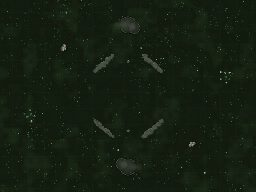
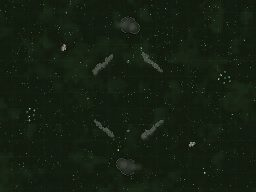
Ridge v4 climbs to a cliff head; river confluences stop ballooning

diff --git a/game.js b/game.js
@@ -2210,18 +2210,32 @@ const blocked = new Uint8Array(MAP_W * MAP_H);
 // narrows along the run. Straight constant-width bands read as a racetrack
 // (playtest 2026-07-26). Colliders, ground paint, and the water animation all
 // share these exact points.
-function riverPath([x1, y1, x2, y2, r]) {
+function riverPath(seg, all) {
+  const [x1, y1, x2, y2, r] = seg;
   const dxn0 = x2 - x1, dyn0 = y2 - y1;
   const L = Math.hypot(dxn0, dyn0);
   const dxn = dxn0 / L, dyn = dyn0 / L, nx = -dyn, ny = dxn;
   const seed = (x1 * 0.37 + y1 * 0.73 + x2 * 0.11) % 6.283;
+  // an endpoint that lands in/near ANOTHER channel is a CONFLUENCE, not a
+  // mouth — no delta flare there (2026-08-04, Bronson: two flared mouths
+  // overlapping at a junction ballooned into a blob). Mouths at causeway
+  // gaps and map edges keep the flare.
+  const nearOther = (px, py) => (all || []).some(o => {
+    if (o === seg) return false;
+    const ddx = o[2] - o[0], ddy = o[3] - o[1];
+    const tt = Math.max(0, Math.min(1, ((px - o[0]) * ddx + (py - o[1]) * ddy) / (ddx * ddx + ddy * ddy || 1)));
+    return Math.hypot(px - (o[0] + ddx * tt), py - (o[1] + ddy * tt)) < (r + o[4]) * 1.15;
+  });
+  const openStart = !nearOther(x1, y1), openEnd = !nearOther(x2, y2);
   const pts = [];
   for (let d = 0; d <= L; d += 30) {
     // meander eases to zero at the ends so causeway mouths stay put
     const ease = Math.min(1, d / 140, (L - d) / 140);
     const sway = (Math.sin(d * 0.011 + seed) * 0.55 + Math.sin(d * 0.0042 + seed * 2.7) * 0.45) * r * 0.5 * ease;
     // mouths flare outward (delta-style) so causeway gaps pinch hourglass
-    const flare = 1 + 0.38 * (1 - Math.min(1, d / 130, (L - d) / 130));
+    const fs = openStart ? Math.min(1, d / 130) : 1;
+    const fe = openEnd ? Math.min(1, (L - d) / 130) : 1;
+    const flare = 1 + 0.38 * (1 - Math.min(fs, fe));
     const width = r * flare * (0.82 + 0.22 * Math.sin(d * 0.016 + seed * 1.7) + 0.16 * Math.sin(d * 0.0061 - seed));
     pts.push({ x: x1 + dxn * d + nx * sway, y: y1 + dyn * d + ny * sway, r: width, d });
   }
@@ -2487,7 +2501,7 @@ function setup(mapKey) {
   // the causeways. Painted as smooth bands in paintGround; the individual
   // colliders are invisible (paintRock skips water).
   for (const seg of (M.rivers || [])) {
-    for (const p of riverPath(seg)) rocks.push({ x: p.x, y: p.y, r: p.r * 0.95, water: true });
+    for (const p of riverPath(seg, M.rivers)) rocks.push({ x: p.x, y: p.y, r: p.r * 0.95, water: true });
   }
   // trees: solid canopies riding the rock machinery — collision, pathing,
   // placement all come free. Groves scatter a stand inside a disc (min 70px
@@ -5190,25 +5204,34 @@ function paintRidges(g, M) {
     const ax = (x2 - x1) / L, ay = (y2 - y1) / L;
     const nx = -ay, ny = ax;
     const seed = (x1 * 0.7 + y1 * 1.3) % 100;
-    // generate the slab list
+    // generate the slab list — irregular walk along the line (v4: uniform
+    // spacing/size read as vertebrae; the wall must be CHAOTIC to read as
+    // rock). One end is the HIGH end: slabs grow and their faces extrude
+    // deeper toward it, so the formation climbs to a cliff head.
+    const highAtEnd = hn(seed, 777) > 0.5;
     const slabs = [];
-    const spacing = r * 0.85;
-    const n = Math.max(2, Math.round(L / spacing));
-    for (let i = 0; i <= n; i++) {
-      const t = i / n;
-      const off = (hn(seed, i) - 0.5) * r * 0.55;
+    let d = 0, i = 0;
+    while (d <= L + r * 0.3) {
+      const t = Math.min(1, d / L);
+      const tH = highAtEnd ? t : 1 - t;
+      const hFac = 0.35 + tH * tH * 0.95;               // quadratic climb — the head looms
+      const off = (hn(seed, i) - 0.5) * r * (0.45 + 0.6 * hn(seed + 1, i));
       const cxx = x1 + (x2 - x1) * t + nx * off;
       const cyy = y1 + (y2 - y1) * t + ny * off;
-      const sr = r * (0.72 + hn(seed + 2, i) * 0.55) * (i === 0 || i === n ? 0.8 : 1);
+      const sr = r * (0.5 + hn(seed + 2, i) * 0.5 + tH * 0.45);
       const rot = hn(seed + 4, i) * Math.PI * 2;
+      const vn = 5 + Math.floor(hn(seed + 5, i) * 4);   // 5-8 verts: blocky to shard
+      const spike = Math.floor(hn(seed + 7, i) * vn);   // one vertex juts
       const verts = [];
-      const vn = 7;
       for (let k = 0; k < vn; k++) {
-        const va = rot + (k / vn) * Math.PI * 2 + (hn(seed + 6, i * 13 + k) - 0.5) * 0.35;
-        const vr = sr * (0.72 + hn(seed + 8, i * 17 + k) * 0.45);
+        const va = rot + (k / vn) * Math.PI * 2 + (hn(seed + 6, i * 13 + k) - 0.5) * 0.5;
+        let vr = sr * (0.58 + hn(seed + 8, i * 17 + k) * 0.55);
+        if (k === spike) vr *= 1.45;
         verts.push([cxx + Math.cos(va) * vr, cyy + Math.sin(va) * vr]);
       }
-      slabs.push({ cx: cxx, cy: cyy, sr, verts, i });
+      slabs.push({ cx: cxx, cy: cyy, sr, verts, i, hFac });
+      d += r * (0.5 + hn(seed + 3, i) * 0.6);           // ragged spacing
+      i++;
     }
     const poly = (verts, ox, oy) => {
       g.beginPath();
@@ -5216,15 +5239,21 @@ function paintRidges(g, M) {
       for (const [px, py] of verts) g.lineTo(px + ox, py + oy);
       g.closePath();
     };
-    // pass 1: settling ground shadow, all slabs
-    g.fillStyle = 'rgba(0,0,0,0.30)';
-    for (const s of slabs) { poly(s.verts, 10, 14); g.fill(); }
-    // pass 2: the cliff FACES — each top extruded to the south-east; drawing
-    // the dark shape offset then the lit top over it makes the height read
-    g.fillStyle = '#1c211b';
-    for (const s of slabs) { poly(s.verts, s.sr * 0.30, s.sr * 0.42); g.fill(); }
-    g.fillStyle = '#272d26';
-    for (const s of slabs) { poly(s.verts, s.sr * 0.16, s.sr * 0.24); g.fill(); }
+    // pass 1: settling ground shadow — deeper under the tall end
+    for (const s of slabs) {
+      g.fillStyle = 'rgba(0,0,0,0.30)';
+      poly(s.verts, 6 + 10 * s.hFac, 9 + 15 * s.hFac); g.fill();
+    }
+    // pass 2: the cliff FACES — extrusion depth follows the height gradient,
+    // so the low tail hugs the ground and the head stands off it
+    for (const s of slabs) {
+      g.fillStyle = '#1c211b';
+      poly(s.verts, s.sr * (0.16 + 0.34 * s.hFac), s.sr * (0.22 + 0.46 * s.hFac)); g.fill();
+    }
+    for (const s of slabs) {
+      g.fillStyle = '#272d26';
+      poly(s.verts, s.sr * (0.09 + 0.17 * s.hFac), s.sr * (0.12 + 0.23 * s.hFac)); g.fill();
+    }
     // pass 3: lit tops, split into two facets along a random chord
     for (const s of slabs) {
       const half = Math.ceil(s.verts.length / 2);
@@ -5639,7 +5668,7 @@ function paintGround(M) {
     }
   }
   for (const seg of ((M && M.rivers) || [])) {
-    const pts = riverPath(seg);
+    const pts = riverPath(seg, M.rivers);
     const bankPoly = (scale, wobble) => {
       g.beginPath();
       const cap = (p, ang, w2, flip) => {   // rounded mouth, swept around the tip
@@ -7306,7 +7335,7 @@ function drawVents(vx, vy, vw, vh) {
 function drawRivers(vx, vy, vw, vh) {
   const rivers = (groundM && groundM.rivers) || [];
   if (!rivers.length) return;
-  if (!groundM._rp) groundM._rp = rivers.map(riverPath);
+  if (!groundM._rp) groundM._rp = rivers.map(seg => riverPath(seg, rivers));
   // band outlines cached as Path2D for the per-frame texture pass
   if (!groundM._wpaths) {
     groundM._wpaths = groundM._rp.map(pts => {
